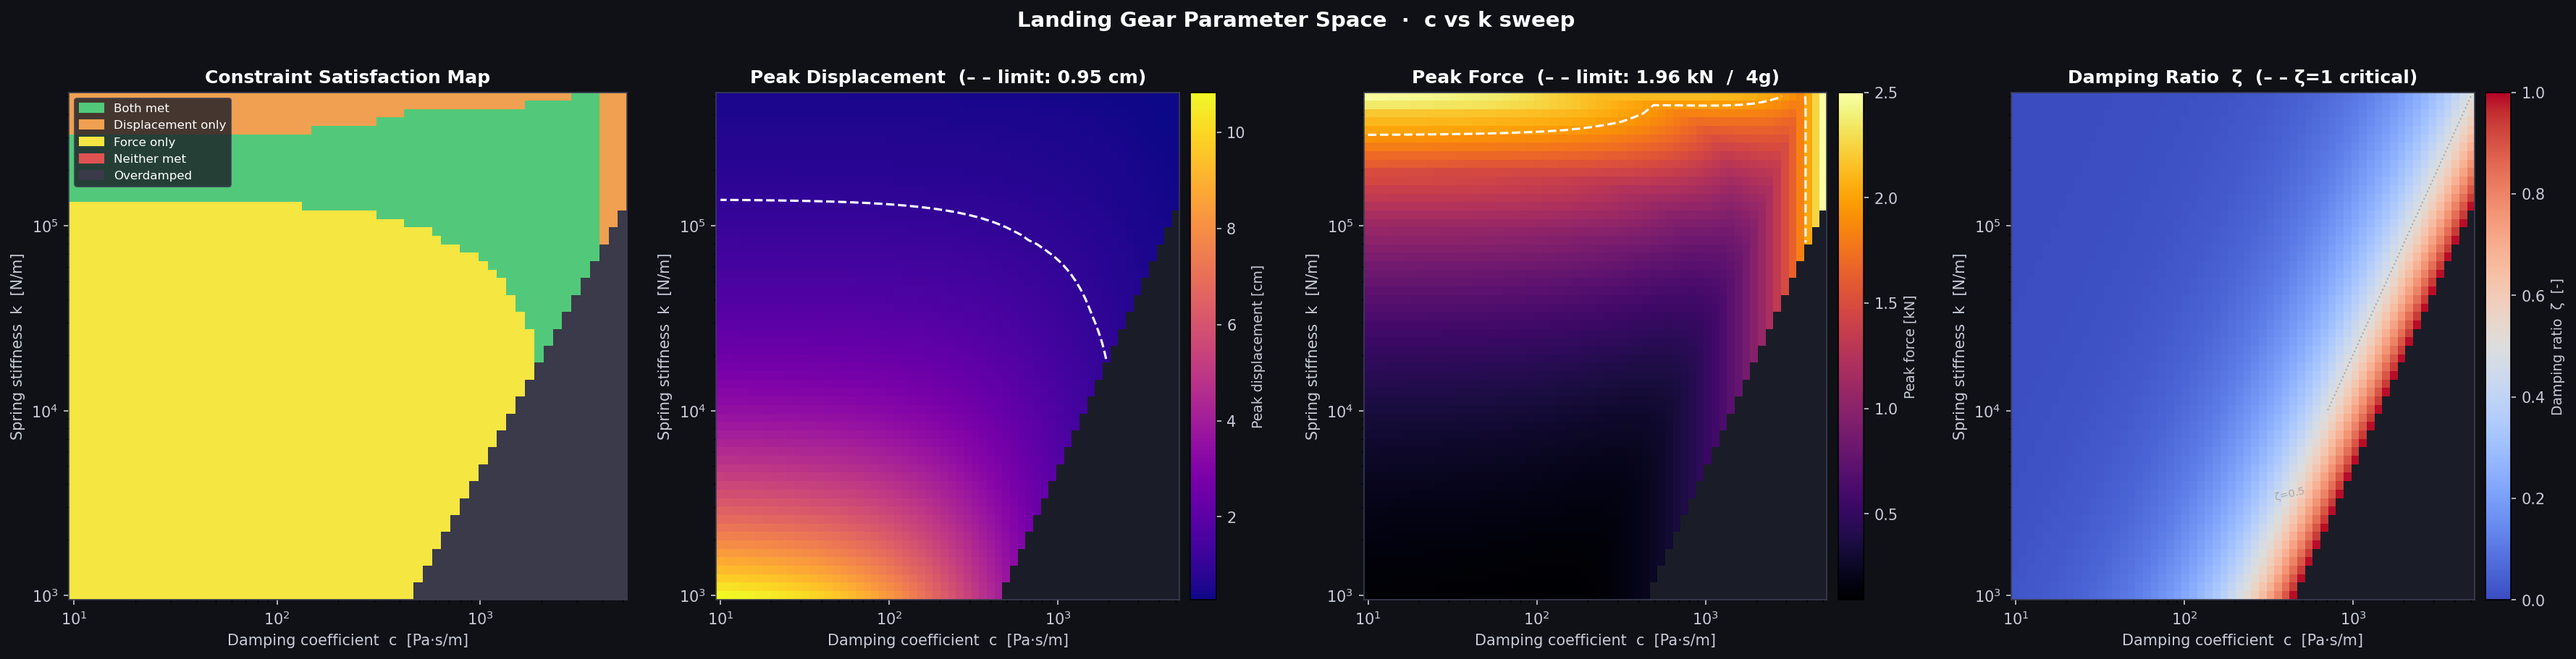
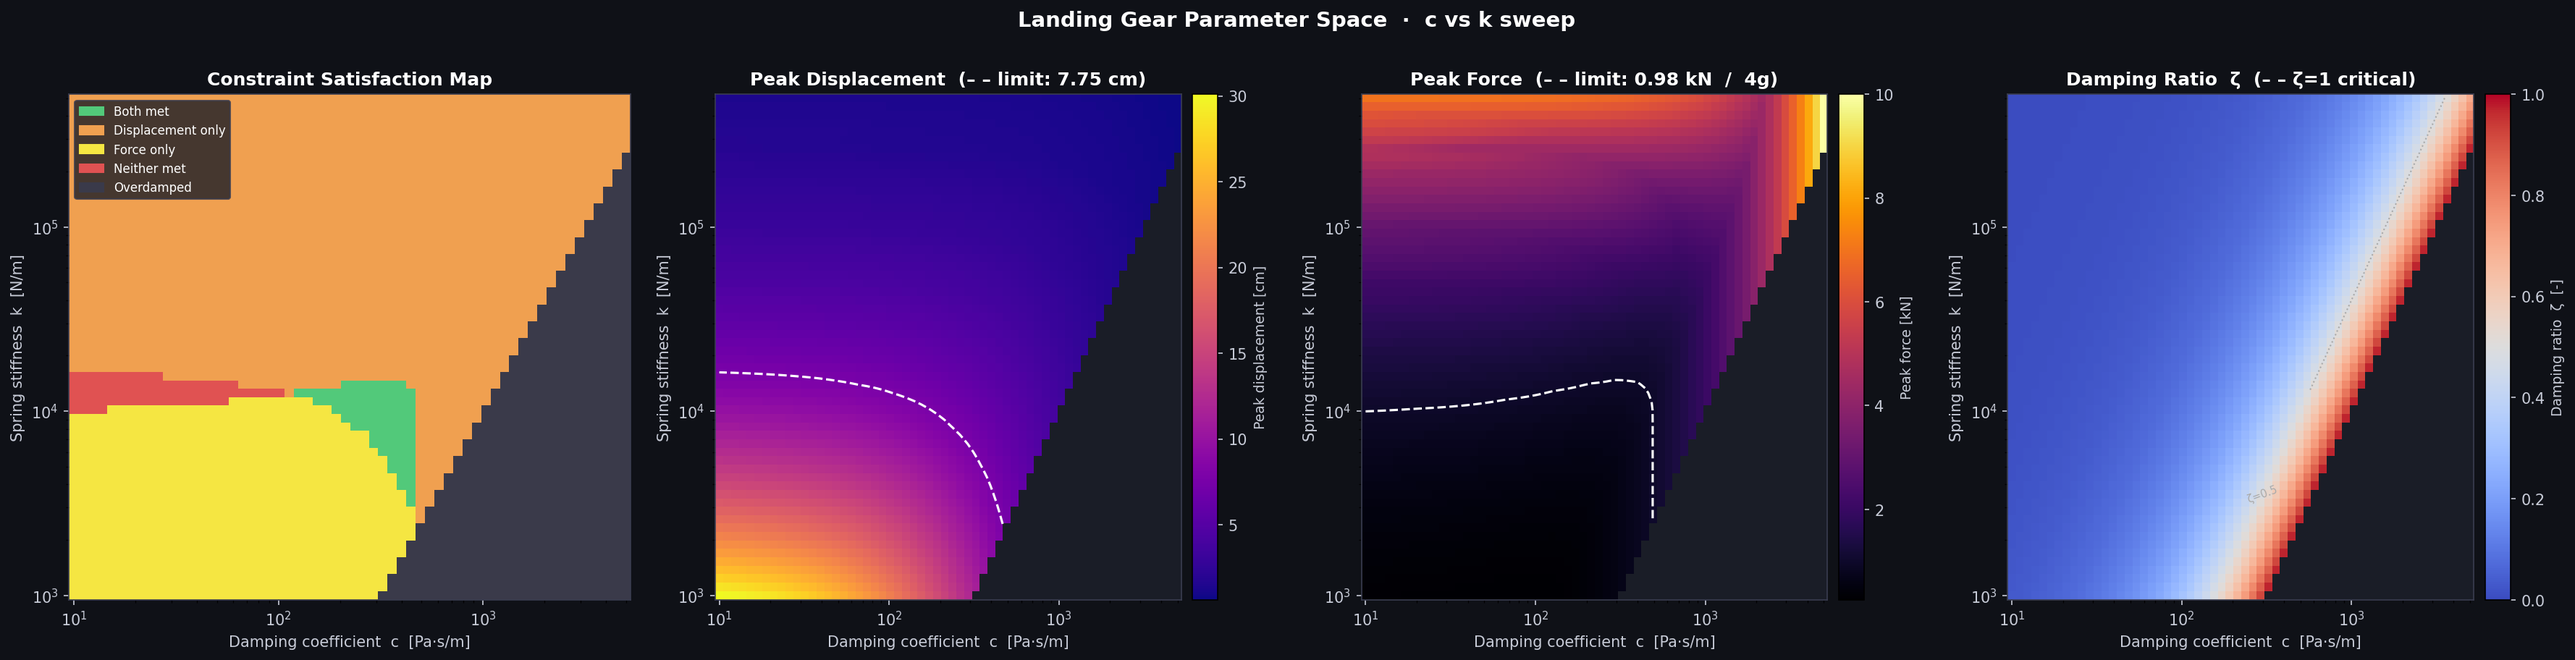
lg graphs

diff --git a/src_final/landing_gear_tuning/landing_gear_parameter_search.py b/src_final/landing_gear_tuning/landing_gear_parameter_search.py
@@ -289,13 +289,13 @@ if __name__ == "__main__":
         k_min=1000,
         k_max=500000,
         n_points=60,            # increase for higher resolution (slower)
-        downward_landing_speed=0.5,
-        displacement_constraint_compression=0.0095,
+        downward_landing_speed=2,
+        displacement_constraint_compression=0.0775,
         force_requirement=4,
         dt=0.01,
         t=5,
-        m=50,
-        L=490,
+        m=25,
+        L=25*9.81,
         log_scale=True,
         save_path="landing_gear_parameter_space.png",
     )
